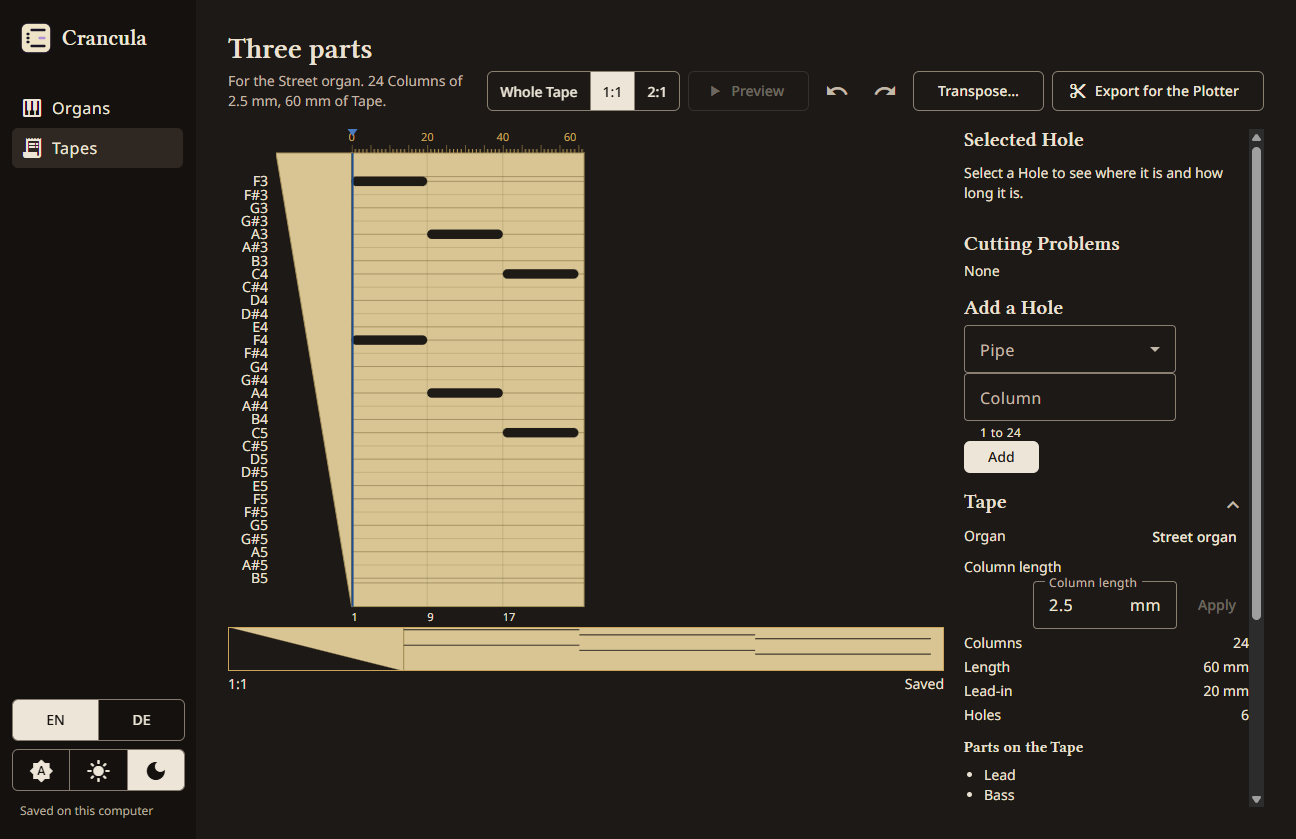
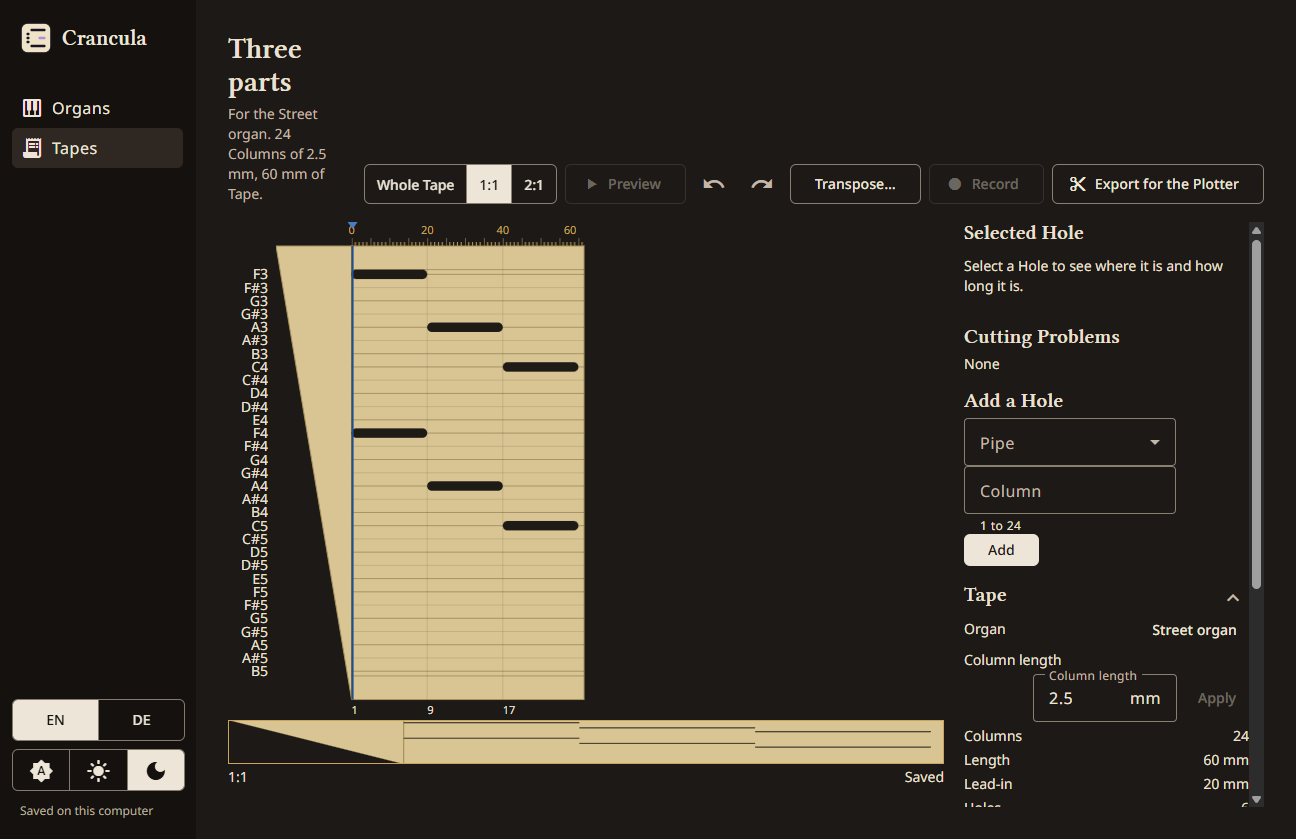
docs(ux): Record screens and UX review (#165)

diff --git a/e2e/ux/screens.capture.ts b/e2e/ux/screens.capture.ts
@@ -1,4 +1,6 @@
 import {expect, test, type Page} from '@playwright/test';
+import {mkdtemp} from 'node:fs/promises';
+import {tmpdir} from 'node:os';
 import {join} from 'node:path';
 import {encodeSmf} from '../../api/song/midi/smf-test-helper';
 import {launchApp, type LaunchedApp} from '../support/launch-app';
@@ -212,7 +214,7 @@ test.describe('UX screens', () => {
 
     // Very last, as it changes the Organ: a Tape whose Hole became too short for the raised hole diameter.
     // Export never opens a save dialog here, because the problems dialog stops it first; stub it anyway.
-    await stubSaveDialog(launched.app);
+    const saveDialog = await stubSaveDialog(launched.app);
     await resizeWindow(launched, 1280, 800);
     const blip = encodeSmf({
       format: 1,
@@ -327,5 +329,36 @@ test.describe('UX screens', () => {
     await expect.poll(async () => Number(await window.getByTestId('playhead').getAttribute('data-column'))).toBeGreaterThan(2);
     await window.mouse.move(640, 400);
     await captureTapeView(window, '08j-tape-view-playing');
+
+    // The Record button next to the Preview, at the largest and the smallest window, in English and German.
+    await window.getByTestId('preview-toggle').click();
+    await expect(window.getByTestId('preview-toggle')).toContainText('Preview');
+    await expect(window.getByTestId('record')).toBeEnabled();
+    await resizeWindow(launched, 1440, 900);
+    await window.mouse.move(700, 450);
+    await captureTapeView(window, '18-tape-view-record');
+    await window.getByTestId('language-switch').locator('[data-language="de"]').click();
+    await window.mouse.move(700, 450);
+    await captureTapeView(window, '18b-tape-view-record-german');
+    await resizeWindow(launched, 1024, 700);
+    await window.mouse.move(640, 400);
+    await captureTapeView(window, '18c-tape-view-record-german-compact');
+    await window.getByTestId('language-switch').locator('[data-language="en"]').click();
+    await window.mouse.move(640, 400);
+    await captureTapeView(window, '18d-tape-view-record-compact');
+
+    // Very last: a Recording held mid-render. The offline context never resumes from its first suspend, so progress stays put.
+    await resizeWindow(launched, 1440, 900);
+    await window.evaluate(() => {
+      OfflineAudioContext.prototype.resume = () => new Promise<void>(() => undefined);
+    });
+    await saveDialog.answerWith(join(await mkdtemp(join(tmpdir(), 'crancula-ux-')), 'Scale.wav'));
+    await window.getByTestId('record').click();
+    await expect(window.getByTestId('record')).toContainText(/Recording… \d+ %/);
+    await window.mouse.move(700, 450);
+    await captureTapeView(window, '19-tape-view-recording');
+    await resizeWindow(launched, 1024, 700);
+    await window.mouse.move(640, 400);
+    await captureTapeView(window, '19b-tape-view-recording-compact');
   });
 });

diff --git a/specs/009-record-a-tape/audit.md b/specs/009-record-a-tape/audit.md
@@ -54,3 +54,55 @@ None found. `mp3-encoder-message` / worker plumbing and `plotter-file-name` / sa
 ### Result
 
 Slice meets the spec in tests; open before merge: T029, T031, T032 and the by-hand items above.
+
+## UX review (2026-10-25)
+
+Screens from `npm run ux:screens` (T029), in `documentation/design/screens/current/`:
+`18-tape-view-record` (1440×900, en), `18b-tape-view-record-german` (1440×900, de),
+`18c-tape-view-record-german-compact` (1024×700, de), `18d-tape-view-record-compact` (1024×700, en),
+`19-tape-view-recording` (1440×900, held mid-render at 20 %), `19b-tape-view-recording-compact` (1024×700).
+The Recording is held by stubbing the save dialog and never resuming the OfflineAudioContext from its first suspend.
+
+| H1 | H2 | H3 | H4 | H5 | H6 | H7 | H8 | H9 | H10 | Total |
+|----|----|----|----|----|----|----|----|----|-----|-------|
+| 4  | 4  | 4  | 4  | 3  | 5  | 3  | 3  | 4  | 5   | 39/50 |
+
+### Findings
+
+1. **[sev 3] H5 · 19-tape-view-recording**: the spinner sits above the label inside the button and pushes
+   "Recording… 20 %" down, so the label is cut off at the bottom edge; the dot icon stays too. Fix: show the
+   spinner in place of the `fiber_manual_record` icon while recording (or a determinate spinner with the percent),
+   keep icon, spinner and label on one line.
+2. **[sev 3] H8 · 19-tape-view-recording**: the progress label is rendered in the disabled grey of Material,
+   which reads below 4.5:1 on the stroked button; the only progress the owner sees is the hardest text to read.
+   Fix: keep the button `aria-disabled` but style the recording state in the normal text colour (or show the
+   progress outside the button, e.g. in the status line under the Tape).
+3. **[sev 2] H5 · 19b-tape-view-recording-compact**: below 1180 px the 40 px button holds both the dot and the
+   spinner side by side, cramped; the percent is only in the tooltip and accessible name. Fix: as 1, swap the icon
+   for a determinate spinner whose ring shows the progress.
+4. **[sev 2] H5 · 19**: a running Recording cannot be stopped; for a 20-minute Tape the owner waits with Preview
+   and Record locked. Fix (scope question, not in the spec): a Cancel action while rendering/encoding.
+5. **[sev 2] H7 · 18c, 18d**: in the compact head Record and Transpose are stroked square buttons while Export,
+   Undo and Redo are borderless icon buttons; Preview and Record (both sound) do not read as a pair. Fix: one style
+   for all icon-only actions, and Preview next to Record.
+6. **[sev 2] H1 · 18b**: at 1440×900 in German the seven head actions leave the subtitle three lines tall
+   ("Für die Octave organ. 200 / Spalten à 5 mm, 1000 / mm Lochband."). Fix: move Record and Export into one
+   "Output" group or menu, or give the subtitle its own row under the title.
+7. **[sev 2] H8 · 18b (pre-existing, not this slice)**: in the German side panel the "Kurbelgeschwindigkeit" label
+   runs past the outline notch and "Übernehmen" drops below the field. Fix: widen the field or shorten the label
+   ("Kurbeltempo", needs dictionary approval).
+8. **[sev 1] H5 · 19**: Undo, Redo and Transpose stay enabled during a Recording; the Recording uses the Tape as
+   it was when Record was pressed, which is right but not visible. Fix: none needed unless owners get confused;
+   optionally note "Recording the Tape as it was at the start" in the tooltip.
+
+### Strengths
+
+- Record sits next to the other Tape actions with a familiar record dot, at both sizes and in both languages,
+  without pushing anything off the head at 1024 px.
+- The Preview is visibly disabled while recording, so the exclusive pair (US2.3) is clear at a glance.
+- Live percent in the button label gives concrete progress, and the Tape stays the visual centre throughout.
+
+### Fixed
+
+None: no finding is a copy or spacing-only change; 1–3 change the button's template and states and go to a
+follow-up task (or the implementer before merge).

diff --git a/specs/009-record-a-tape/tasks.md b/specs/009-record-a-tape/tasks.md
@@ -89,7 +89,7 @@ Playwright e2e only for what needs real Electron (offline rendering, LAME in a W
 
 ## Phase 5: Polish & Cross-Cutting
 
-- [ ] T029 [P] `npm run ux:screens` captures the Tape view with the Record button and during a Recording; run `ux-review` on them; fix findings.
+- [x] T029 [P] `npm run ux:screens` captures the Tape view with the Record button and during a Recording; run `ux-review` on them; fix findings.
 - [x] T030 [P] Reviews: `angular-reviewer` (src/), `electron-reviewer` (app/ and IPC), `spec-auditor` (spec vs. tests) → `specs/009-record-a-tape/audit.md`; fix findings.
 - [ ] T031 `npm run test`, `npm run lint`, `npm run i18n:check`, `npm run build` green; quickstart by hand (play a WAV and an MP3); record the result in STATUS.
 - [ ] T032 STATUS, ROADMAP (Record a tape done), CHANGELOG `[Unreleased]`, README feature list; PR with `Closes #165`.
